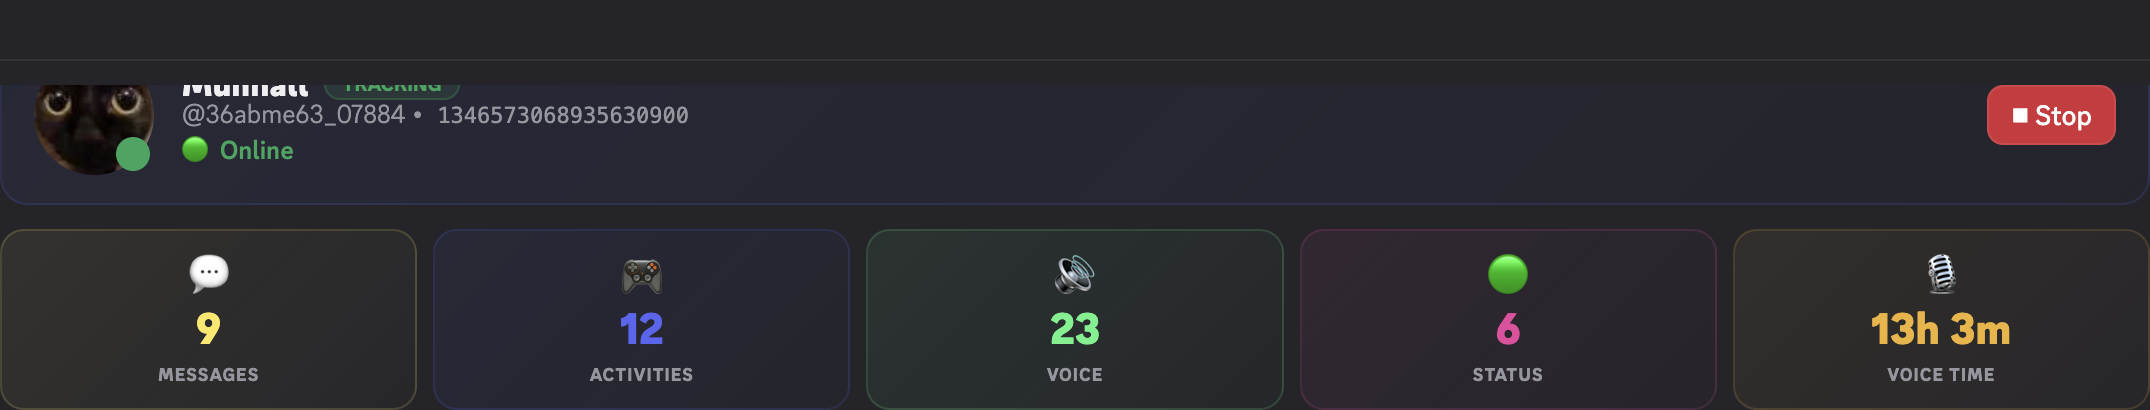
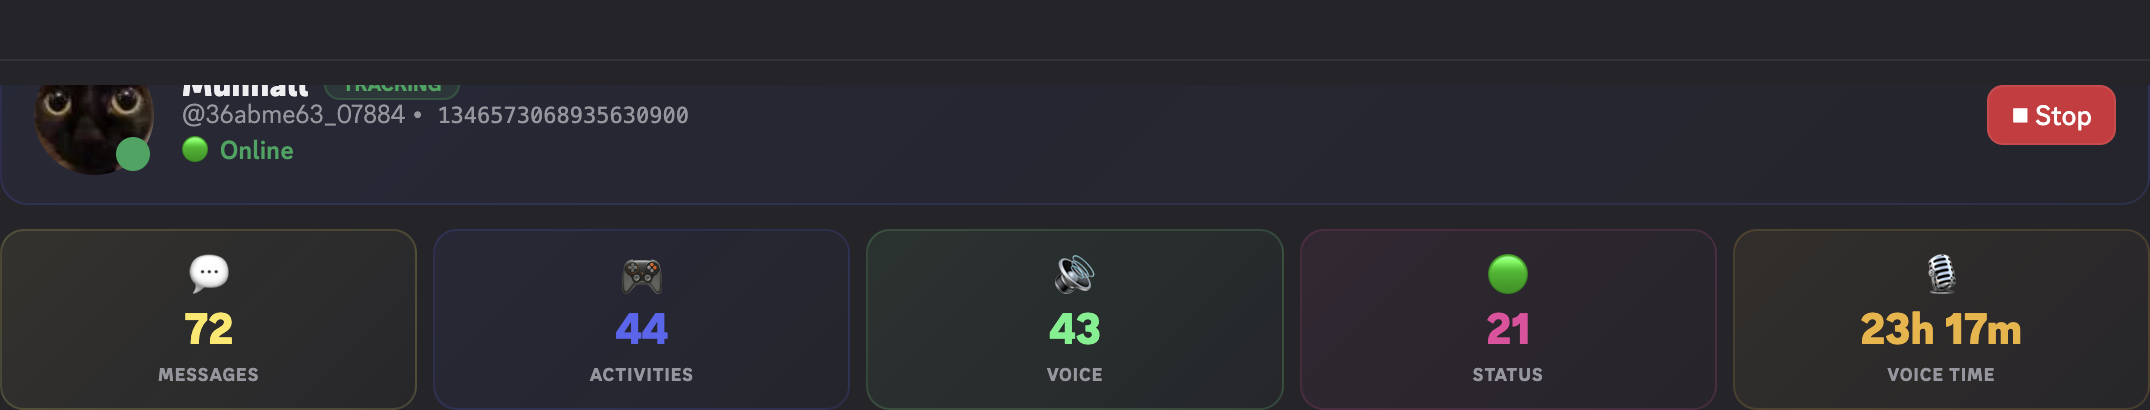
Fix heatmap tooltip overflow and refresh screenshots with dense week data
Clamp the tooltip X position so cells near the right edge keep a
full-width tooltip instead of collapsing into a narrow column, and
regenerate the screenshots against a realistically filled week of
activity data.

🤖 Generated with Codebuff

diff --git a/index.tsx b/index.tsx
@@ -532,7 +532,8 @@ function WeekHeatmap({ heatmapData, sessions }: { heatmapData: Record<string, nu
                                         e.currentTarget.style.transform = "scale(1.2)";
                                         const tt = hourTooltip(d, hour, count);
                                         const r = e.currentTarget.getBoundingClientRect();
-                                        setHoverTip({ text: tt, x: r.left + r.width / 2, y: r.top - 8 });
+                                        const clampX = Math.max(190, Math.min(r.left + r.width / 2, window.innerWidth - 190));
+                                        setHoverTip({ text: tt, x: clampX, y: r.top - 8 });
                                     }}
                                     onMouseLeave={e => {
                                         e.currentTarget.style.transform = "scale(1)";
@@ -654,7 +655,7 @@ function WeekHeatmap({ heatmapData, sessions }: { heatmapData: Record<string, nu
                     background: "var(--background-floating)", border: "1px solid var(--background-modifier-accent)",
                     borderRadius: "8px", padding: "8px 10px", fontSize: "11px", color: "var(--header-primary)",
                     whiteSpace: "pre-line", boxShadow: "0 4px 16px rgba(0,0,0,0.4)", zIndex: 9999, pointerEvents: "none",
-                    maxWidth: "340px"
+                    maxWidth: "340px", width: "max-content"
                 }}>{hoverTip.text}</div>
             )}
         </div>
